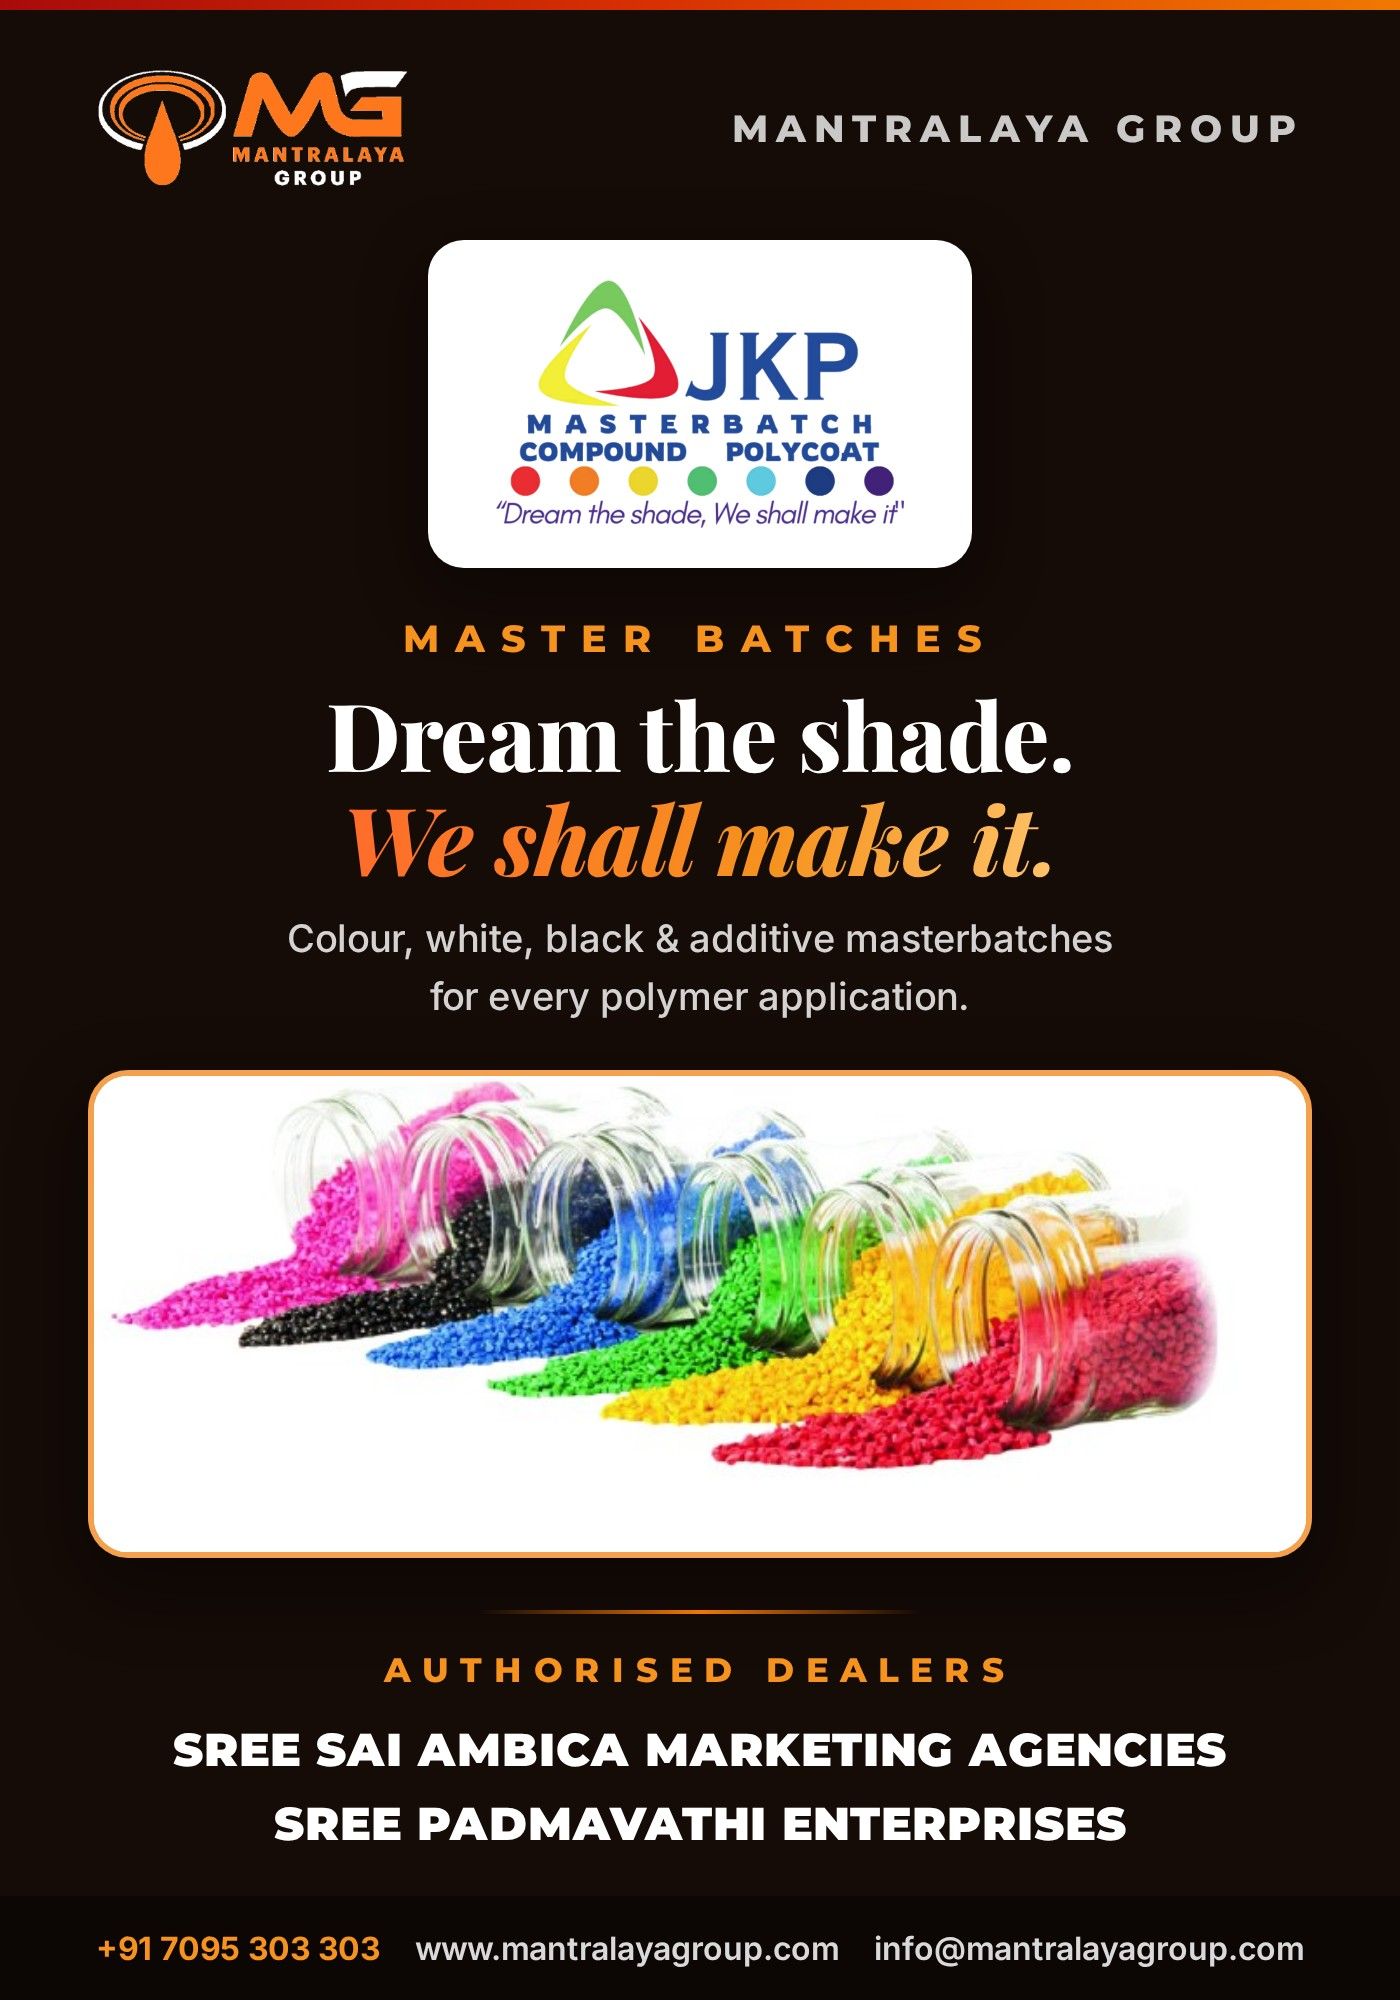
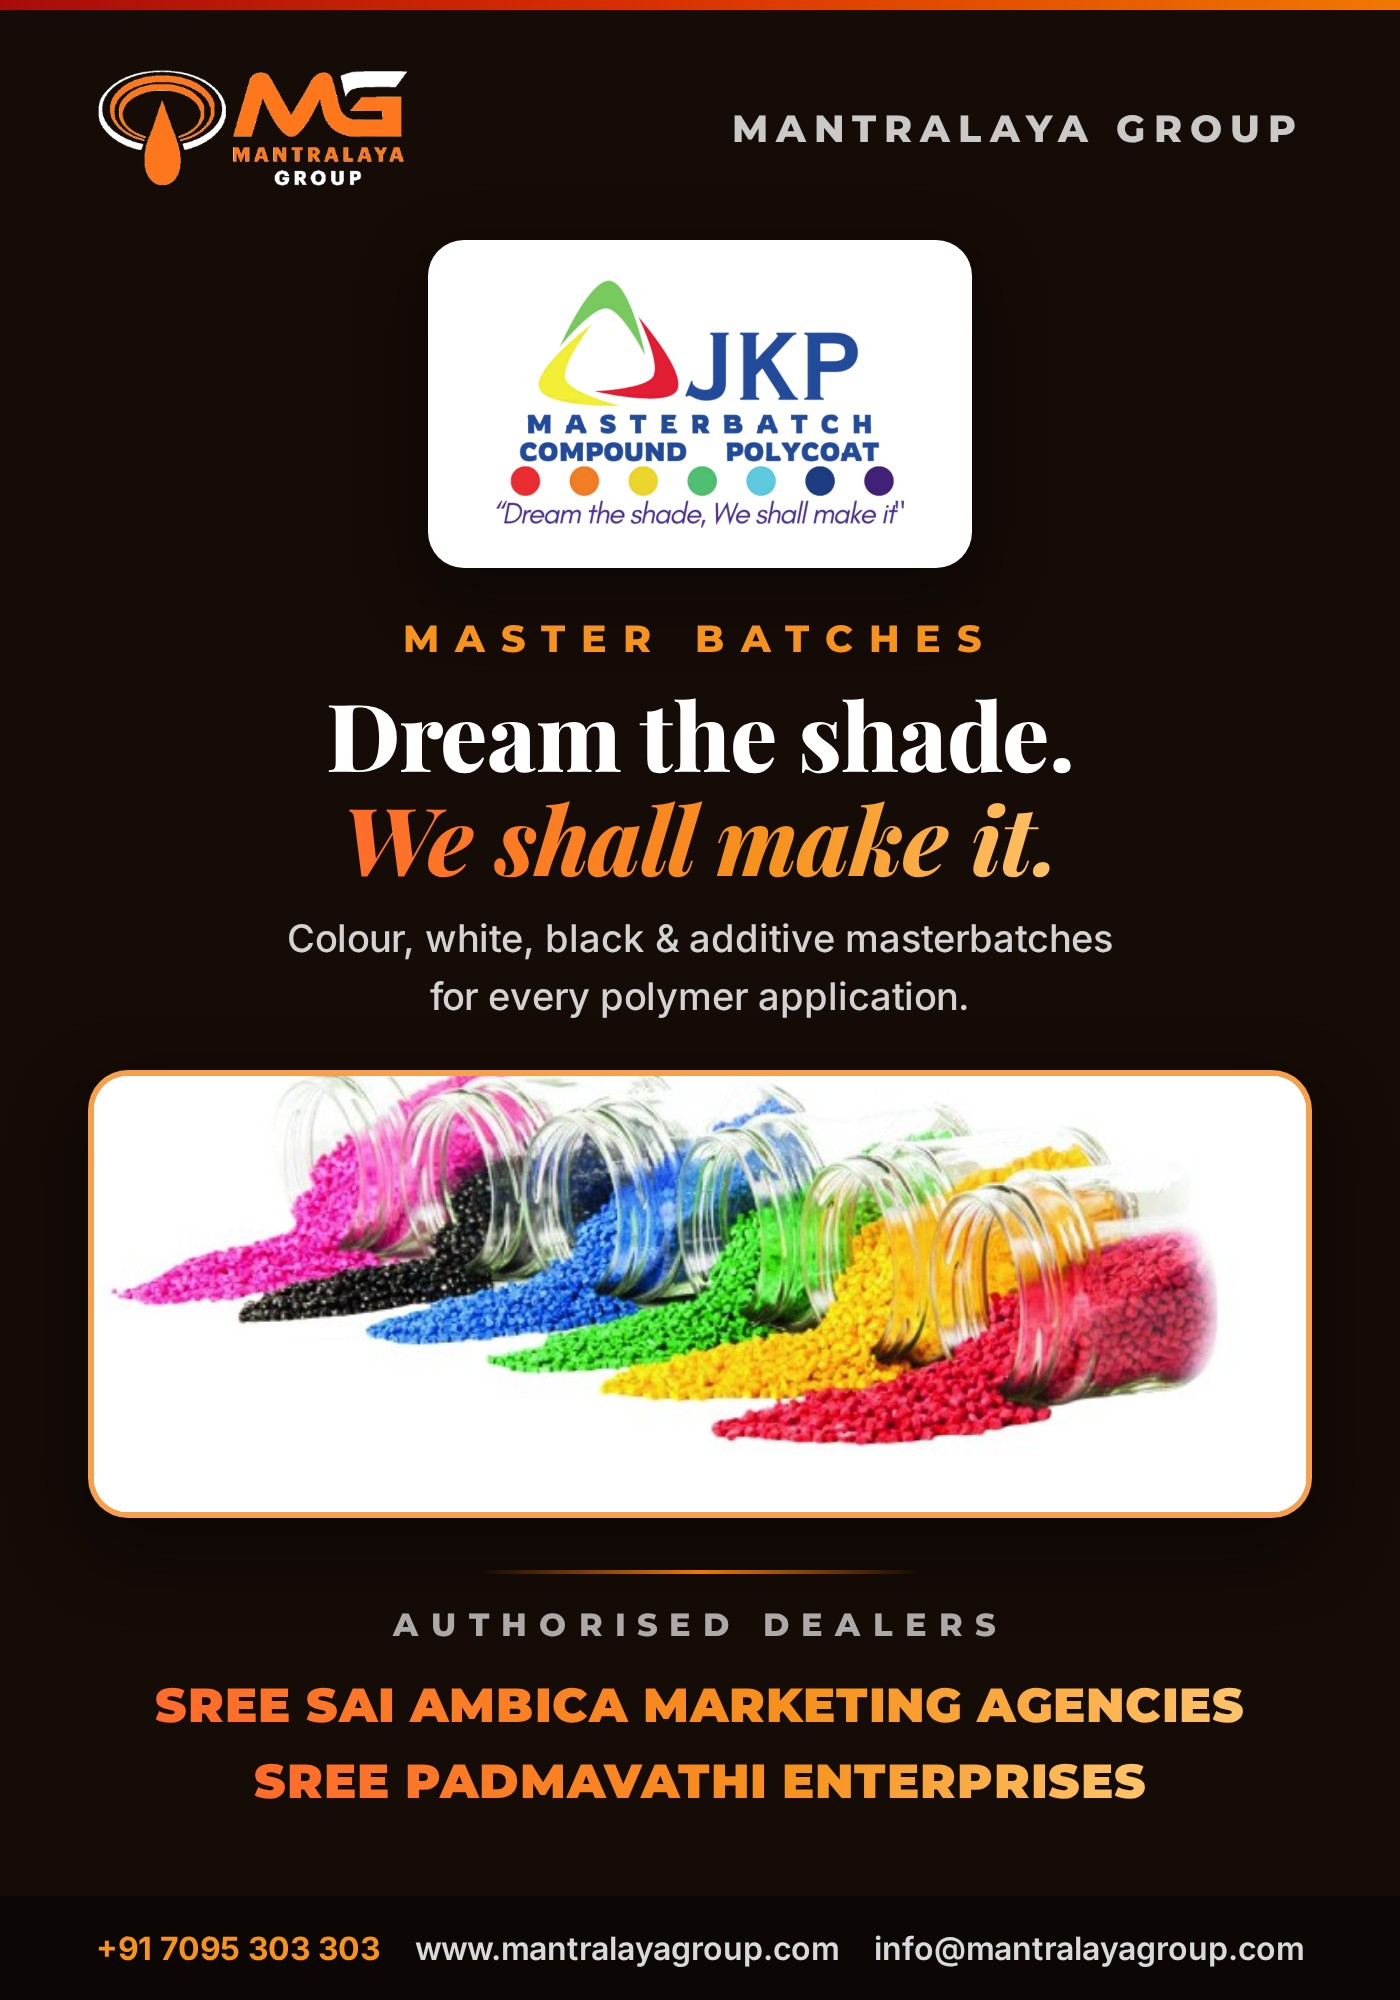
JKP posters: highlight dealer firm names in gradient

Changed region(s): [[0.0614, 0.527, 0.9521, 0.93]]

diff --git a/posters/src/poster-jkp-applications-2200x1000--dark.html b/posters/src/poster-jkp-applications-2200x1000--dark.html
@@ -14,8 +14,8 @@ body{width:1650px;height:750px;overflow:hidden;position:relative;font-family:'Mo
 .bgimg::after{content:'';position:absolute;inset:0;background:linear-gradient(100deg, rgba(18,9,6,0.97) 0%, rgba(18,9,6,0.93) 45%, rgba(18,9,6,0.72) 100%)}
 .z{position:relative;z-index:4}
 </style></head><body><style>
-.wrap{flex:1;display:flex;gap:44px;align-items:center;padding:20px 48px 14px;position:relative;z-index:4}
-.lt{width:430px;flex:none}
+.wrap{flex:1;display:flex;gap:36px;align-items:center;padding:20px 48px 14px;position:relative;z-index:4}
+.lt{width:475px;flex:none}
 .cap2{font-size:44px;margin-top:10px;color:#fff}
 .cap2 em{background:linear-gradient(100deg,#FF6A2B,#F6921E 60%,#FFC46B);-webkit-background-clip:text;background-clip:text;color:transparent;font-style:italic}
 .sub{margin-top:10px;font-family:'Inter',sans-serif;font-size:17px;font-weight:500;color:rgba(255,255,255,0.78);line-height:1.5}
@@ -32,9 +32,9 @@ body{width:1650px;height:750px;overflow:hidden;position:relative;font-family:'Mo
 <div class="label" style="margin-top:20px;">JKP MASTERBATCHES</div>
 <div class="cap cap2">One partner.<br><em>Every application.</em></div>
 <div style="text-align:left;">
-<div style="width:220px;height:2px;margin:26px 0 18px;background:linear-gradient(90deg,#F07800,#F07800,transparent);"></div>
-<div style="font-size:17px;font-weight:800;letter-spacing:6px;color:#F6921E;">AUTHORISED DEALERS</div>
-<div style="margin-top:12px;font-size:17px;font-weight:900;letter-spacing:0.5px;color:#fff;line-height:1.6;">SREE SAI AMBICA MARKETING AGENCIES<br>SREE PADMAVATHI ENTERPRISES</div>
+<div style="width:220px;height:2px;margin:26px 0 16px;background:linear-gradient(90deg,#F07800,#F07800,transparent);"></div>
+<div style="font-size:16px;font-weight:800;letter-spacing:6px;color:rgba(255,255,255,0.65);">AUTHORISED DEALERS</div>
+<div style="margin-top:12px;font-size:20px;font-weight:900;letter-spacing:0.5px;line-height:1.55;"><span style="background:linear-gradient(100deg,#FF6A2B,#F6921E 60%,#FFC46B);-webkit-background-clip:text;background-clip:text;color:transparent;">SREE SAI AMBICA MARKETING AGENCIES</span><br><span style="background:linear-gradient(100deg,#FF6A2B,#F6921E 60%,#FFC46B);-webkit-background-clip:text;background-clip:text;color:transparent;">SREE PADMAVATHI ENTERPRISES</span></div>
 </div>
 </div>
 <div class="rt"><div class="agrid"><div class="aw"><div class="ac" style="border-color:#A80B0B;"><img src="../../products/jkp-rope.jpg"></div><div class="al">ROPES</div></div><div class="aw"><div class="ac" style="border-color:#D83000;"><img src="../../products/jkp-toys.jpg"></div><div class="al">TOYS</div></div><div class="aw"><div class="ac" style="border-color:#F07800;"><img src="../../products/jkp-cables.jpg"></div><div class="al">CABLES &amp; WIRES</div></div><div class="aw"><div class="ac" style="border-color:#F6921E;"><img src="../../products/jkp-tanks.jpg"></div><div class="al">WATER TANKS</div></div><div class="aw"><div class="ac" style="border-color:#F6921E;"><img src="../../products/jkp-luggage.jpg"></div><div class="al">LUGGAGE</div></div><div class="aw"><div class="ac" style="border-color:#F07800;"><img src="../../products/jkp-household.jpg"></div><div class="al">HOUSEHOLD</div></div><div class="aw"><div class="ac" style="border-color:#D83000;"><img src="../../products/jkp-drums.jpg"></div><div class="al">BLOW CONTAINERS</div></div><div class="aw"><div class="ac" style="border-color:#A80B0B;"><img src="../../products/jkp-preforms.jpg"></div><div class="al">PET PREFORMS</div></div></div>

diff --git a/posters/src/poster-jkp-applications-2200x1000--light.html b/posters/src/poster-jkp-applications-2200x1000--light.html
@@ -14,8 +14,8 @@ body{width:1650px;height:750px;overflow:hidden;position:relative;font-family:'Mo
 .bgimg::after{content:'';position:absolute;inset:0;background:linear-gradient(100deg, rgba(251,244,235,0.97) 0%, rgba(251,244,235,0.94) 45%, rgba(251,244,235,0.72) 100%)}
 .z{position:relative;z-index:4}
 </style></head><body><style>
-.wrap{flex:1;display:flex;gap:44px;align-items:center;padding:20px 48px 14px;position:relative;z-index:4}
-.lt{width:430px;flex:none}
+.wrap{flex:1;display:flex;gap:36px;align-items:center;padding:20px 48px 14px;position:relative;z-index:4}
+.lt{width:475px;flex:none}
 .cap2{font-size:44px;margin-top:10px;color:#10141B}
 .cap2 em{background:linear-gradient(100deg,#A80B0B,#D83000 45%,#F07800);-webkit-background-clip:text;background-clip:text;color:transparent;font-style:italic}
 .sub{margin-top:10px;font-family:'Inter',sans-serif;font-size:17px;font-weight:500;color:#3A4250;line-height:1.5}
@@ -32,9 +32,9 @@ body{width:1650px;height:750px;overflow:hidden;position:relative;font-family:'Mo
 <div class="label" style="margin-top:20px;">JKP MASTERBATCHES</div>
 <div class="cap cap2">One partner.<br><em>Every application.</em></div>
 <div style="text-align:left;">
-<div style="width:220px;height:2px;margin:26px 0 18px;background:linear-gradient(90deg,#F07800,#F07800,transparent);"></div>
-<div style="font-size:17px;font-weight:800;letter-spacing:6px;color:#C43D00;">AUTHORISED DEALERS</div>
-<div style="margin-top:12px;font-size:17px;font-weight:900;letter-spacing:0.5px;color:#10141B;line-height:1.6;">SREE SAI AMBICA MARKETING AGENCIES<br>SREE PADMAVATHI ENTERPRISES</div>
+<div style="width:220px;height:2px;margin:26px 0 16px;background:linear-gradient(90deg,#F07800,#F07800,transparent);"></div>
+<div style="font-size:16px;font-weight:800;letter-spacing:6px;color:#5A6472;">AUTHORISED DEALERS</div>
+<div style="margin-top:12px;font-size:20px;font-weight:900;letter-spacing:0.5px;line-height:1.55;"><span style="background:linear-gradient(100deg,#A80B0B,#D83000 45%,#F07800);-webkit-background-clip:text;background-clip:text;color:transparent;">SREE SAI AMBICA MARKETING AGENCIES</span><br><span style="background:linear-gradient(100deg,#A80B0B,#D83000 45%,#F07800);-webkit-background-clip:text;background-clip:text;color:transparent;">SREE PADMAVATHI ENTERPRISES</span></div>
 </div>
 </div>
 <div class="rt"><div class="agrid"><div class="aw"><div class="ac" style="border-color:#A80B0B;"><img src="../../products/jkp-rope.jpg"></div><div class="al">ROPES</div></div><div class="aw"><div class="ac" style="border-color:#D83000;"><img src="../../products/jkp-toys.jpg"></div><div class="al">TOYS</div></div><div class="aw"><div class="ac" style="border-color:#F07800;"><img src="../../products/jkp-cables.jpg"></div><div class="al">CABLES &amp; WIRES</div></div><div class="aw"><div class="ac" style="border-color:#F6921E;"><img src="../../products/jkp-tanks.jpg"></div><div class="al">WATER TANKS</div></div><div class="aw"><div class="ac" style="border-color:#F6921E;"><img src="../../products/jkp-luggage.jpg"></div><div class="al">LUGGAGE</div></div><div class="aw"><div class="ac" style="border-color:#F07800;"><img src="../../products/jkp-household.jpg"></div><div class="al">HOUSEHOLD</div></div><div class="aw"><div class="ac" style="border-color:#D83000;"><img src="../../products/jkp-drums.jpg"></div><div class="al">BLOW CONTAINERS</div></div><div class="aw"><div class="ac" style="border-color:#A80B0B;"><img src="../../products/jkp-preforms.jpg"></div><div class="al">PET PREFORMS</div></div></div>

diff --git a/posters/src/poster-05-jkp-masterbatch--dark.html b/posters/src/poster-05-jkp-masterbatch--dark.html
@@ -19,7 +19,7 @@ body{width:700px;height:1000px;overflow:hidden;position:relative;font-family:'Mo
 .cap2 em{background:linear-gradient(100deg,#FF6A2B,#F6921E 60%,#FFC46B);-webkit-background-clip:text;background-clip:text;color:transparent;font-style:italic}
 .sub{margin-top:12px;font-family:'Inter',sans-serif;font-size:19px;font-weight:500;color:rgba(255,255,255,0.82);line-height:1.5}
 .card{margin-top:22px;width:100%;background:#fff;border-radius:20px;overflow:hidden;border:3px solid rgba(240,120,0,0.7);box-shadow:0 14px 38px rgba(0,0,0,0.45)}
-.card img{width:100%;height:238px;object-fit:cover;object-position:center 62%;background:#fff;display:block}
+.card img{width:100%;height:218px;object-fit:cover;object-position:center 62%;background:#fff;display:block}
 </style><div class="rule"></div><div class="hdr"><img src="../../mg-logo-dark.png"><div class="co">MANTRALAYA GROUP</div></div>
 <div class="wrap">
 <div style="display:inline-block;background:#fff;border-radius:18px;padding:16px 30px;box-shadow:0 12px 34px rgba(0,0,0,0.4);"><img src="../../jkp-logo.png" style="height:132px;display:block;"></div>
@@ -28,8 +28,8 @@ body{width:700px;height:1000px;overflow:hidden;position:relative;font-family:'Mo
 <div class="sub">Colour, white, black &amp; additive masterbatches<br>for every polymer application.</div>
 <div class="card"><img src="../../products/jkp-granule-jars-wide.jpg"></div>
 <div style="text-align:center;">
-<div style="width:220px;height:2px;margin:26px auto 18px;background:linear-gradient(90deg,transparent,#F07800,transparent);"></div>
-<div style="font-size:17px;font-weight:800;letter-spacing:6px;color:#F6921E;">AUTHORISED DEALERS</div>
-<div style="margin-top:12px;font-size:23px;font-weight:900;letter-spacing:0.5px;color:#fff;line-height:1.6;">SREE SAI AMBICA MARKETING AGENCIES<br>SREE PADMAVATHI ENTERPRISES</div>
+<div style="width:220px;height:2px;margin:26px auto 16px;background:linear-gradient(90deg,transparent,#F07800,transparent);"></div>
+<div style="font-size:16px;font-weight:800;letter-spacing:6px;color:rgba(255,255,255,0.65);">AUTHORISED DEALERS</div>
+<div style="margin-top:12px;font-size:24px;font-weight:900;letter-spacing:0.5px;line-height:1.55;"><span style="background:linear-gradient(100deg,#FF6A2B,#F6921E 60%,#FFC46B);-webkit-background-clip:text;background-clip:text;color:transparent;">SREE SAI AMBICA MARKETING AGENCIES</span><br><span style="background:linear-gradient(100deg,#FF6A2B,#F6921E 60%,#FFC46B);-webkit-background-clip:text;background-clip:text;color:transparent;">SREE PADMAVATHI ENTERPRISES</span></div>
 </div>
 </div><div class="ftr"><span><b>+91 7095 303 303</b></span><span>www.mantralayagroup.com</span><span>info@mantralayagroup.com</span></div></body></html>

diff --git a/posters/src/poster-05-jkp-masterbatch--light.html b/posters/src/poster-05-jkp-masterbatch--light.html
@@ -19,7 +19,7 @@ body{width:700px;height:1000px;overflow:hidden;position:relative;font-family:'Mo
 .cap2 em{background:linear-gradient(100deg,#A80B0B,#D83000 45%,#F07800);-webkit-background-clip:text;background-clip:text;color:transparent;font-style:italic}
 .sub{margin-top:12px;font-family:'Inter',sans-serif;font-size:19px;font-weight:500;color:#3A4250;line-height:1.5}
 .card{margin-top:22px;width:100%;background:#fff;border-radius:20px;overflow:hidden;border:3px solid #D83000;box-shadow:0 14px 38px rgba(0,0,0,0.12)}
-.card img{width:100%;height:238px;object-fit:cover;object-position:center 62%;background:#fff;display:block}
+.card img{width:100%;height:218px;object-fit:cover;object-position:center 62%;background:#fff;display:block}
 </style><div class="rule"></div><div class="hdr"><img src="../../mg-logo.png"><div class="co">MANTRALAYA GROUP</div></div>
 <div class="wrap">
 <img src="../../jkp-logo.png" style="height:132px;display:block;margin:0 auto;">
@@ -28,8 +28,8 @@ body{width:700px;height:1000px;overflow:hidden;position:relative;font-family:'Mo
 <div class="sub">Colour, white, black &amp; additive masterbatches<br>for every polymer application.</div>
 <div class="card"><img src="../../products/jkp-granule-jars-wide.jpg"></div>
 <div style="text-align:center;">
-<div style="width:220px;height:2px;margin:26px auto 18px;background:linear-gradient(90deg,transparent,#F07800,transparent);"></div>
-<div style="font-size:17px;font-weight:800;letter-spacing:6px;color:#C43D00;">AUTHORISED DEALERS</div>
-<div style="margin-top:12px;font-size:23px;font-weight:900;letter-spacing:0.5px;color:#10141B;line-height:1.6;">SREE SAI AMBICA MARKETING AGENCIES<br>SREE PADMAVATHI ENTERPRISES</div>
+<div style="width:220px;height:2px;margin:26px auto 16px;background:linear-gradient(90deg,transparent,#F07800,transparent);"></div>
+<div style="font-size:16px;font-weight:800;letter-spacing:6px;color:#5A6472;">AUTHORISED DEALERS</div>
+<div style="margin-top:12px;font-size:24px;font-weight:900;letter-spacing:0.5px;line-height:1.55;"><span style="background:linear-gradient(100deg,#A80B0B,#D83000 45%,#F07800);-webkit-background-clip:text;background-clip:text;color:transparent;">SREE SAI AMBICA MARKETING AGENCIES</span><br><span style="background:linear-gradient(100deg,#A80B0B,#D83000 45%,#F07800);-webkit-background-clip:text;background-clip:text;color:transparent;">SREE PADMAVATHI ENTERPRISES</span></div>
 </div>
 </div><div class="ftr"><span><b>+91 7095 303 303</b></span><span>www.mantralayagroup.com</span><span>info@mantralayagroup.com</span></div></body></html>

diff --git a/posters/gen2.py b/posters/gen2.py
@@ -189,14 +189,13 @@ def jkplogo(dark, h=150):
     return f'<img src="../../jkp-logo.png" style="height:{h}px;display:block;margin:0 auto;">'
 
 def dealerblock(dark, center=True, size=23):
-    lab = '#F6921E' if dark else '#C43D00'
-    fg = '#fff' if dark else '#10141B'
+    lab = 'rgba(255,255,255,0.65)' if dark else '#5A6472'
+    gt = GT_W if dark else GT_D
     al = 'center' if center else 'left'
-    mg = '0 auto' if center else '0'
     return f"""<div style="text-align:{al};">
-<div style="width:220px;height:2px;margin:{'26px auto 18px' if center else '26px 0 18px'};background:linear-gradient(90deg,{'transparent' if center else '#F07800'},#F07800,transparent);"></div>
-<div style="font-size:17px;font-weight:800;letter-spacing:6px;color:{lab};">AUTHORISED DEALERS</div>
-<div style="margin-top:12px;font-size:{size}px;font-weight:900;letter-spacing:0.5px;color:{fg};line-height:1.6;">SREE SAI AMBICA MARKETING AGENCIES<br>SREE PADMAVATHI ENTERPRISES</div>
+<div style="width:220px;height:2px;margin:{'26px auto 16px' if center else '26px 0 16px'};background:linear-gradient(90deg,{'transparent' if center else '#F07800'},#F07800,transparent);"></div>
+<div style="font-size:16px;font-weight:800;letter-spacing:6px;color:{lab};">AUTHORISED DEALERS</div>
+<div style="margin-top:12px;font-size:{int(size*1.18)}px;font-weight:900;letter-spacing:0.5px;line-height:1.55;"><span style="{gt}">SREE SAI AMBICA MARKETING AGENCIES</span><br><span style="{gt}">SREE PADMAVATHI ENTERPRISES</span></div>
 </div>"""
 
 def jkp1(w,h,dark):
@@ -208,7 +207,7 @@ def jkp1(w,h,dark):
 .cap2 em{{{GT_W if dark else GT_D}font-style:italic}}
 .sub{{margin-top:12px;font-family:'Inter',sans-serif;font-size:19px;font-weight:500;color:{sub};line-height:1.5}}
 .card{{margin-top:22px;width:100%;background:#fff;border-radius:20px;overflow:hidden;border:3px solid {'rgba(240,120,0,0.7)' if dark else '#D83000'};box-shadow:0 14px 38px rgba(0,0,0,{'0.45' if dark else '0.12'})}}
-.card img{{width:100%;height:238px;object-fit:cover;object-position:center 62%;background:#fff;display:block}}
+.card img{{width:100%;height:218px;object-fit:cover;object-position:center 62%;background:#fff;display:block}}
 </style>{hdr(dark)}
 <div class="wrap">
 {jkplogo(dark,132)}
@@ -216,7 +215,7 @@ def jkp1(w,h,dark):
 <div class="cap cap2">Dream the shade.<br><em>We shall make it.</em></div>
 <div class="sub">Colour, white, black &amp; additive masterbatches<br>for every polymer application.</div>
 <div class="card"><img src="{P('jkp-granule-jars-wide')}"></div>
-{dealerblock(dark)}
+{dealerblock(dark, size=21)}
 </div>{FOOT}"""
 
 def jkp2(w,h,dark):
@@ -227,8 +226,8 @@ def jkp2(w,h,dark):
     borders=['#A80B0B','#D83000','#F07800','#F6921E','#F6921E','#F07800','#D83000','#A80B0B']
     tiles=''.join(f'<div class="aw"><div class="ac" style="border-color:{borders[i]};"><img src="{P(p)}"></div><div class="al">{l}</div></div>' for i,(p,l) in enumerate(apps))
     return base(w,h,dark)+f"""<style>
-.wrap{{flex:1;display:flex;gap:44px;align-items:center;padding:20px 48px 14px;position:relative;z-index:4}}
-.lt{{width:430px;flex:none}}
+.wrap{{flex:1;display:flex;gap:36px;align-items:center;padding:20px 48px 14px;position:relative;z-index:4}}
+.lt{{width:475px;flex:none}}
 .cap2{{font-size:44px;margin-top:10px;color:{fg}}}
 .cap2 em{{{GT_W if dark else GT_D}font-style:italic}}
 .sub{{margin-top:10px;font-family:'Inter',sans-serif;font-size:17px;font-weight:500;color:{sub};line-height:1.5}}
